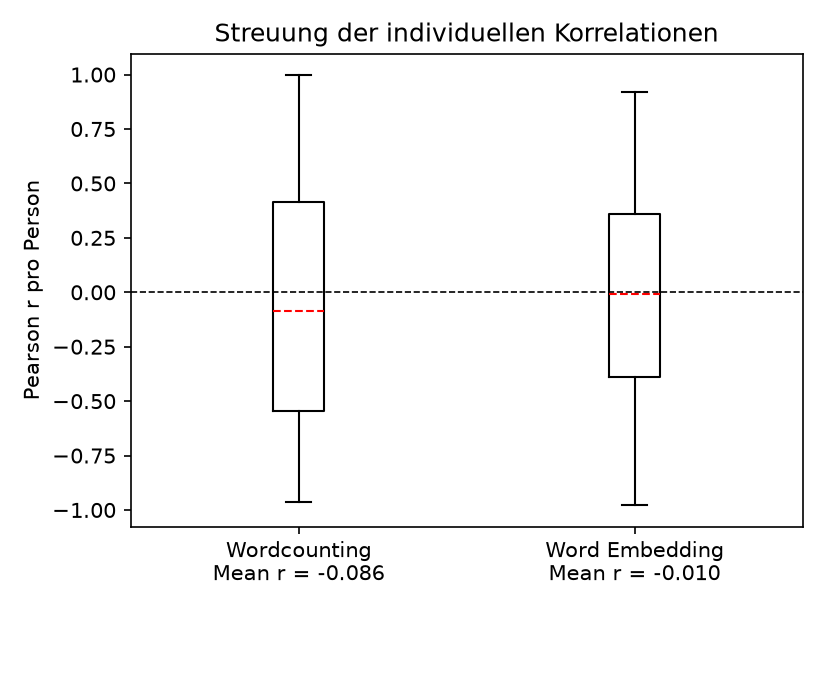
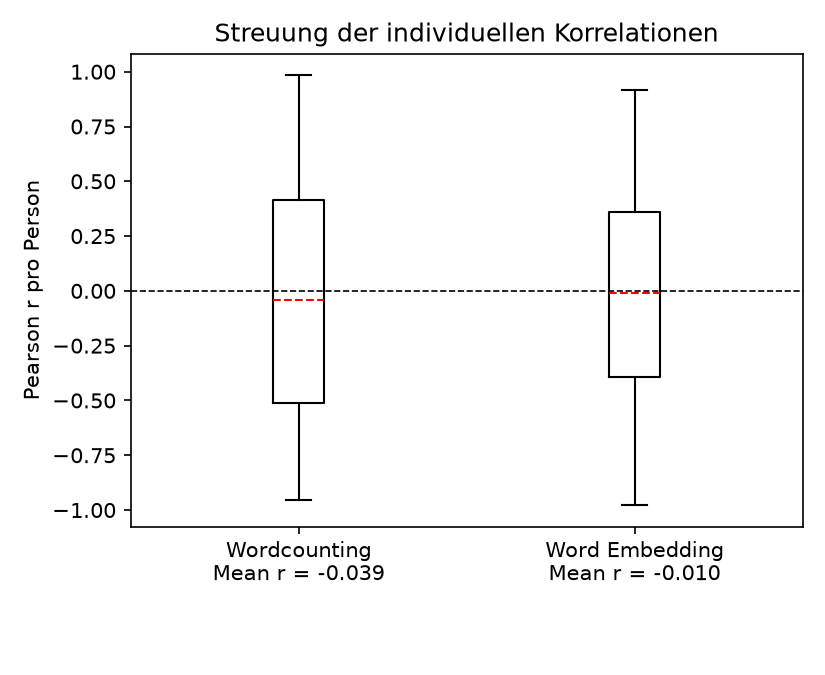
Wordcounting-Korrelation robuster gemacht: Treffer relativ zur Textlänge, Nullvektor-Artefakt entfernt
- wordcount.py: Wortzahl pro Person (n_words) wird jetzt mit ausgegeben
  (gleiches Preprocessing wie beim Scoring)
- analysis.py:
  - Rohe Trefferzahlen werden vor der z-Normalisierung durch die individuelle
    Wortzahl geteilt (Treffer pro Wort statt absolut). Grund: Wortzahl
    korreliert stark mit den absoluten Treffern (r = .42 bis .73 je
    Dimension) und hat den Zusammenhang bisher konfundiert
  - Personen mit varianzlosem Rohsignal (i.d.R. 0 Treffer in allen 5
    Dimensionen, 9/161 Fälle) bekommen für den individuellen Pearson r jetzt
    NaN statt eines durch die z-Transformation künstlich erzeugten Werts,
    der nur die unterschiedlichen Wortlisten-Längen je Dimension widerspiegelt
    und nichts über die Person aussagt. Die Personen bleiben im Datensatz,
    nur dieser eine abgeleitete Wert ist für sie nicht definiert
  - Mean Pearson r Wordcounting dadurch von -0.086 (N=161) auf -0.039
    (N=152, 9 undefinierte Fälle ausgenommen); Embedding-Strom unverändert
    bei -0.010
- descriptive_analysis.py: neuer Diagnoseplot 06b_hits_per_word_boxplot.png
  (Treffer pro 100 Wörter je Dimension) als Ergänzung zu Abb. 5, um
  Textlängen-Konfundierung von echter Sparsity zu unterscheiden
- Ergebnis-Dateien und Plots neu generiert

diff --git a/analysis.py b/analysis.py
@@ -19,9 +19,15 @@ data_embscore = pd.read_excel('Embedding_Scores.xlsx')
 data_counting= pd.merge(data_countscore, data_MFQ, on='participant_id', how='inner')
 data_embedding = pd.merge(data_embscore, data_MFQ, on='participant_id', how='inner')
 
-# Z-Normalisierung der Häufigkeitsvektoren
+# Rohe Trefferzahlen relativ zur individuellen Wortzahl statt absolut, da sich sonst
+# Textlaenge und tatsaechliche moralische Sprache vermischen (kurze Texte -> wenig Treffer)
 rawscore_cols = ['score_care', 'score_fairness', 'score_loyalty', 'score_authority', 'score_purity']
-for col in rawscore_cols:
+perword_cols = [col + '_perword' for col in rawscore_cols]
+for raw_col, perword_col in zip(rawscore_cols, perword_cols):
+    data_counting[perword_col] = data_counting[raw_col] / data_counting['n_words']
+
+# Z-Normalisierung der (wortzahl-normalisierten) Häufigkeitsvektoren
+for col in perword_cols:
     data_counting[col + '_z'] = stats.zscore(data_counting[col])
 
 # Z-Normalisierung der Embedding-Vektoren (entfernt den dimensionsspezifischen Bias)
@@ -31,25 +37,36 @@ for col in embraw_cols:
 
 # Spaltennamen für die Korrelation
 mfq_cols = ['mfq_care_score', 'mfq_fairness_score', 'mfq_loyalty_score', 'mfq_authority_score', 'mfq_purity_score']
-score_z_cols = ['score_care_z', 'score_fairness_z', 'score_loyalty_z', 'score_authority_z', 'score_purity_z']
+score_z_cols = [col + '_z' for col in perword_cols]
 emb_cols = ['emb_care_z', 'emb_fairness_z', 'emb_loyalty_z', 'emb_authority_z', 'emb_purity_z']
 
 
-# generische Funktion zur Berechnung der Korrelation zwischen zwei Vektoren
-def correlate_vectors(row, score_cols):
+# generische Funktion zur Berechnung der Korrelation zwischen zwei Vektoren.
+# Ist das Rohsignal einer Person in allen Dimensionen identisch (i.d.R. ueberall 0
+# Treffer), hat es selbst keine Varianz. Die z-Transformation wuerde daraus trotzdem
+# einen scheinbar variierenden Vektor erzeugen, der aber nur die unterschiedlichen
+# Wortlisten-Laengen je Dimension widerspiegelt, nicht die Person - die Korrelation
+# waere dann ein reines Transformationsartefakt. Im Fall von Varianz 0 im Rohsignal
+# ist die Korrelation entsprechend nicht definiert (NaN) statt eines solchen Kunstwerts.
+def correlate_vectors(row, raw_cols, score_cols):
+    if np.ptp(row[raw_cols].values.astype(float)) == 0:
+        return np.nan
     mfq_vec   = row[mfq_cols].values.astype(float)
     score_vec = row[score_cols].values.astype(float)
     r, p = stats.pearsonr(mfq_vec, score_vec)
     return r
 
 # Aufruf für counting und embedding
-data_counting['pearson_r'] = data_counting.apply(lambda row: correlate_vectors(row, score_z_cols), axis=1)
-data_embedding['pearson_r'] = data_embedding.apply(lambda row: correlate_vectors(row, emb_cols), axis=1)
+data_counting['pearson_r'] = data_counting.apply(lambda row: correlate_vectors(row, rawscore_cols, score_z_cols), axis=1)
+data_embedding['pearson_r'] = data_embedding.apply(lambda row: correlate_vectors(row, embraw_cols, emb_cols), axis=1)
 
-#Korrelationen mitteln
+#Korrelationen mitteln (NaN-Faelle mit varianzlosem Rohsignal werden dabei automatisch
+#ausgeschlossen, da pandas .mean() NaN ignoriert)
+n_undefined_counting = data_counting['pearson_r'].isna().sum()
 mean_r_counting = data_counting['pearson_r'].mean()
 mean_r_embedding = data_embedding['pearson_r'].mean()
-print(f'Mean Pearson r for counting: {mean_r_counting}')
+print(f'Wordcounting: {n_undefined_counting}/{len(data_counting)} Personen mit varianzlosem Rohsignal (Korrelation nicht definiert)')
+print(f'Mean Pearson r for counting (N={data_counting["pearson_r"].notna().sum()}): {mean_r_counting}')
 print(f'Mean Pearson r for embedding: {mean_r_embedding}')
 
 #Ergebnisse speichern
@@ -60,7 +77,7 @@ data_embedding.to_excel('Embedding_Analysis.xlsx', index=False)
 # PLOT 1: Boxplot der Verteilung der individuellen pearson_r-Werte je Methode
 # ------------------------------------------------------------------
 fig, ax = plt.subplots(figsize=(5.5, 4.5))
-box_data = [data_counting['pearson_r'], data_embedding['pearson_r']]
+box_data = [data_counting['pearson_r'].dropna(), data_embedding['pearson_r'].dropna()]
 #Mean manuell eingeblendet
 ax.boxplot(box_data, showmeans=True, meanline=True,
            meanprops={'color': 'red', 'linestyle': '--'},

diff --git a/descriptive_analysis.py b/descriptive_analysis.py
@@ -277,6 +277,36 @@ def describe_wordcount_scores(scores_path=SCORE_PATH):
     fig.tight_layout()
     fig.savefig(os.path.join(PLOT_DIR, "06_hits_per_dimension_boxplot.png"), dpi=150)
     plt.close(fig)
+
+
+# ------------------------------------------------------------------
+# 6b. Wordcounting-Ansatz: Treffer relativ zur individuellen Textlaenge
+# ------------------------------------------------------------------
+def describe_wordcount_rates(scores_path=SCORE_PATH):
+    section("6b. Wordcounting-Ansatz: MFD-Treffer relativ zur Textlänge")
+
+    scores = pd.read_excel(scores_path)
+    rate_cols = [c.replace("score_", "rate_") for c in SCORE_COLS]
+    for score_col, rate_col in zip(SCORE_COLS, rate_cols):
+        scores[rate_col] = scores[score_col] / scores["n_words"] * 100
+
+    desc = scores[rate_cols].describe().T
+    desc["median"] = scores[rate_cols].median()
+    print(desc.round(3))
+
+    labels = [c.replace("rate_", "") for c in rate_cols]
+
+    fig, ax = plt.subplots(figsize=(7, 4.5))
+    ax.boxplot([scores[c].dropna() for c in rate_cols])
+    ax.set_xticks(range(1, len(labels) + 1))
+    ax.set_xticklabels(labels, rotation=20)
+    ax.set_ylabel("Treffer pro 100 Wörter")
+    ax.set_title("Verteilung der MFD-Treffer pro Person nach Dimension\n(relativ zur individuellen Wortzahl)")
+    fig.tight_layout()
+    fig.savefig(os.path.join(PLOT_DIR, "06b_hits_per_word_boxplot.png"), dpi=150)
+    plt.close(fig)
+
+
 # ------------------------------------------------------------------
 # Main
 # ------------------------------------------------------------------
@@ -290,6 +320,7 @@ def main():
     describe_prompts(df)
     missing_report(df)
     describe_wordcount_scores()
+    describe_wordcount_rates()
     print(f"\nPlots gespeichert in: ./{PLOT_DIR}/")
 
 

diff --git a/wordcount.py b/wordcount.py
@@ -67,6 +67,10 @@ data['score_loyalty']   = data['prompts_all'].apply(lambda t: score_dict(t, dict
 data['score_authority'] = data['prompts_all'].apply(lambda t: score_dict(t, dict_authority))
 data['score_purity']    = data['prompts_all'].apply(lambda t: score_dict(t, dict_purity))
 
+#Wortzahl pro Person (gleiches Preprocessing wie beim Scoring), fuer die
+#Normalisierung der Trefferzahlen relativ zur Textlaenge in der Analyse
+data['n_words'] = data['prompts_all'].apply(lambda t: len(preprocess_text(t)))
+
 
 #Matches listen
 data['matches_care']      = data['prompts_all'].apply(lambda t: get_matches(t, dict_care))
@@ -77,7 +81,7 @@ data['matches_purity']    = data['prompts_all'].apply(lambda t: get_matches(t, d
 
 
 #Als Excel speichern
-data[['participant_id', 'score_care', 'matches_care',
+data[['participant_id', 'n_words', 'score_care', 'matches_care',
            'score_fairness', 'matches_fairness',
            'score_loyalty', 'matches_loyalty',
            'score_authority', 'matches_authority',
